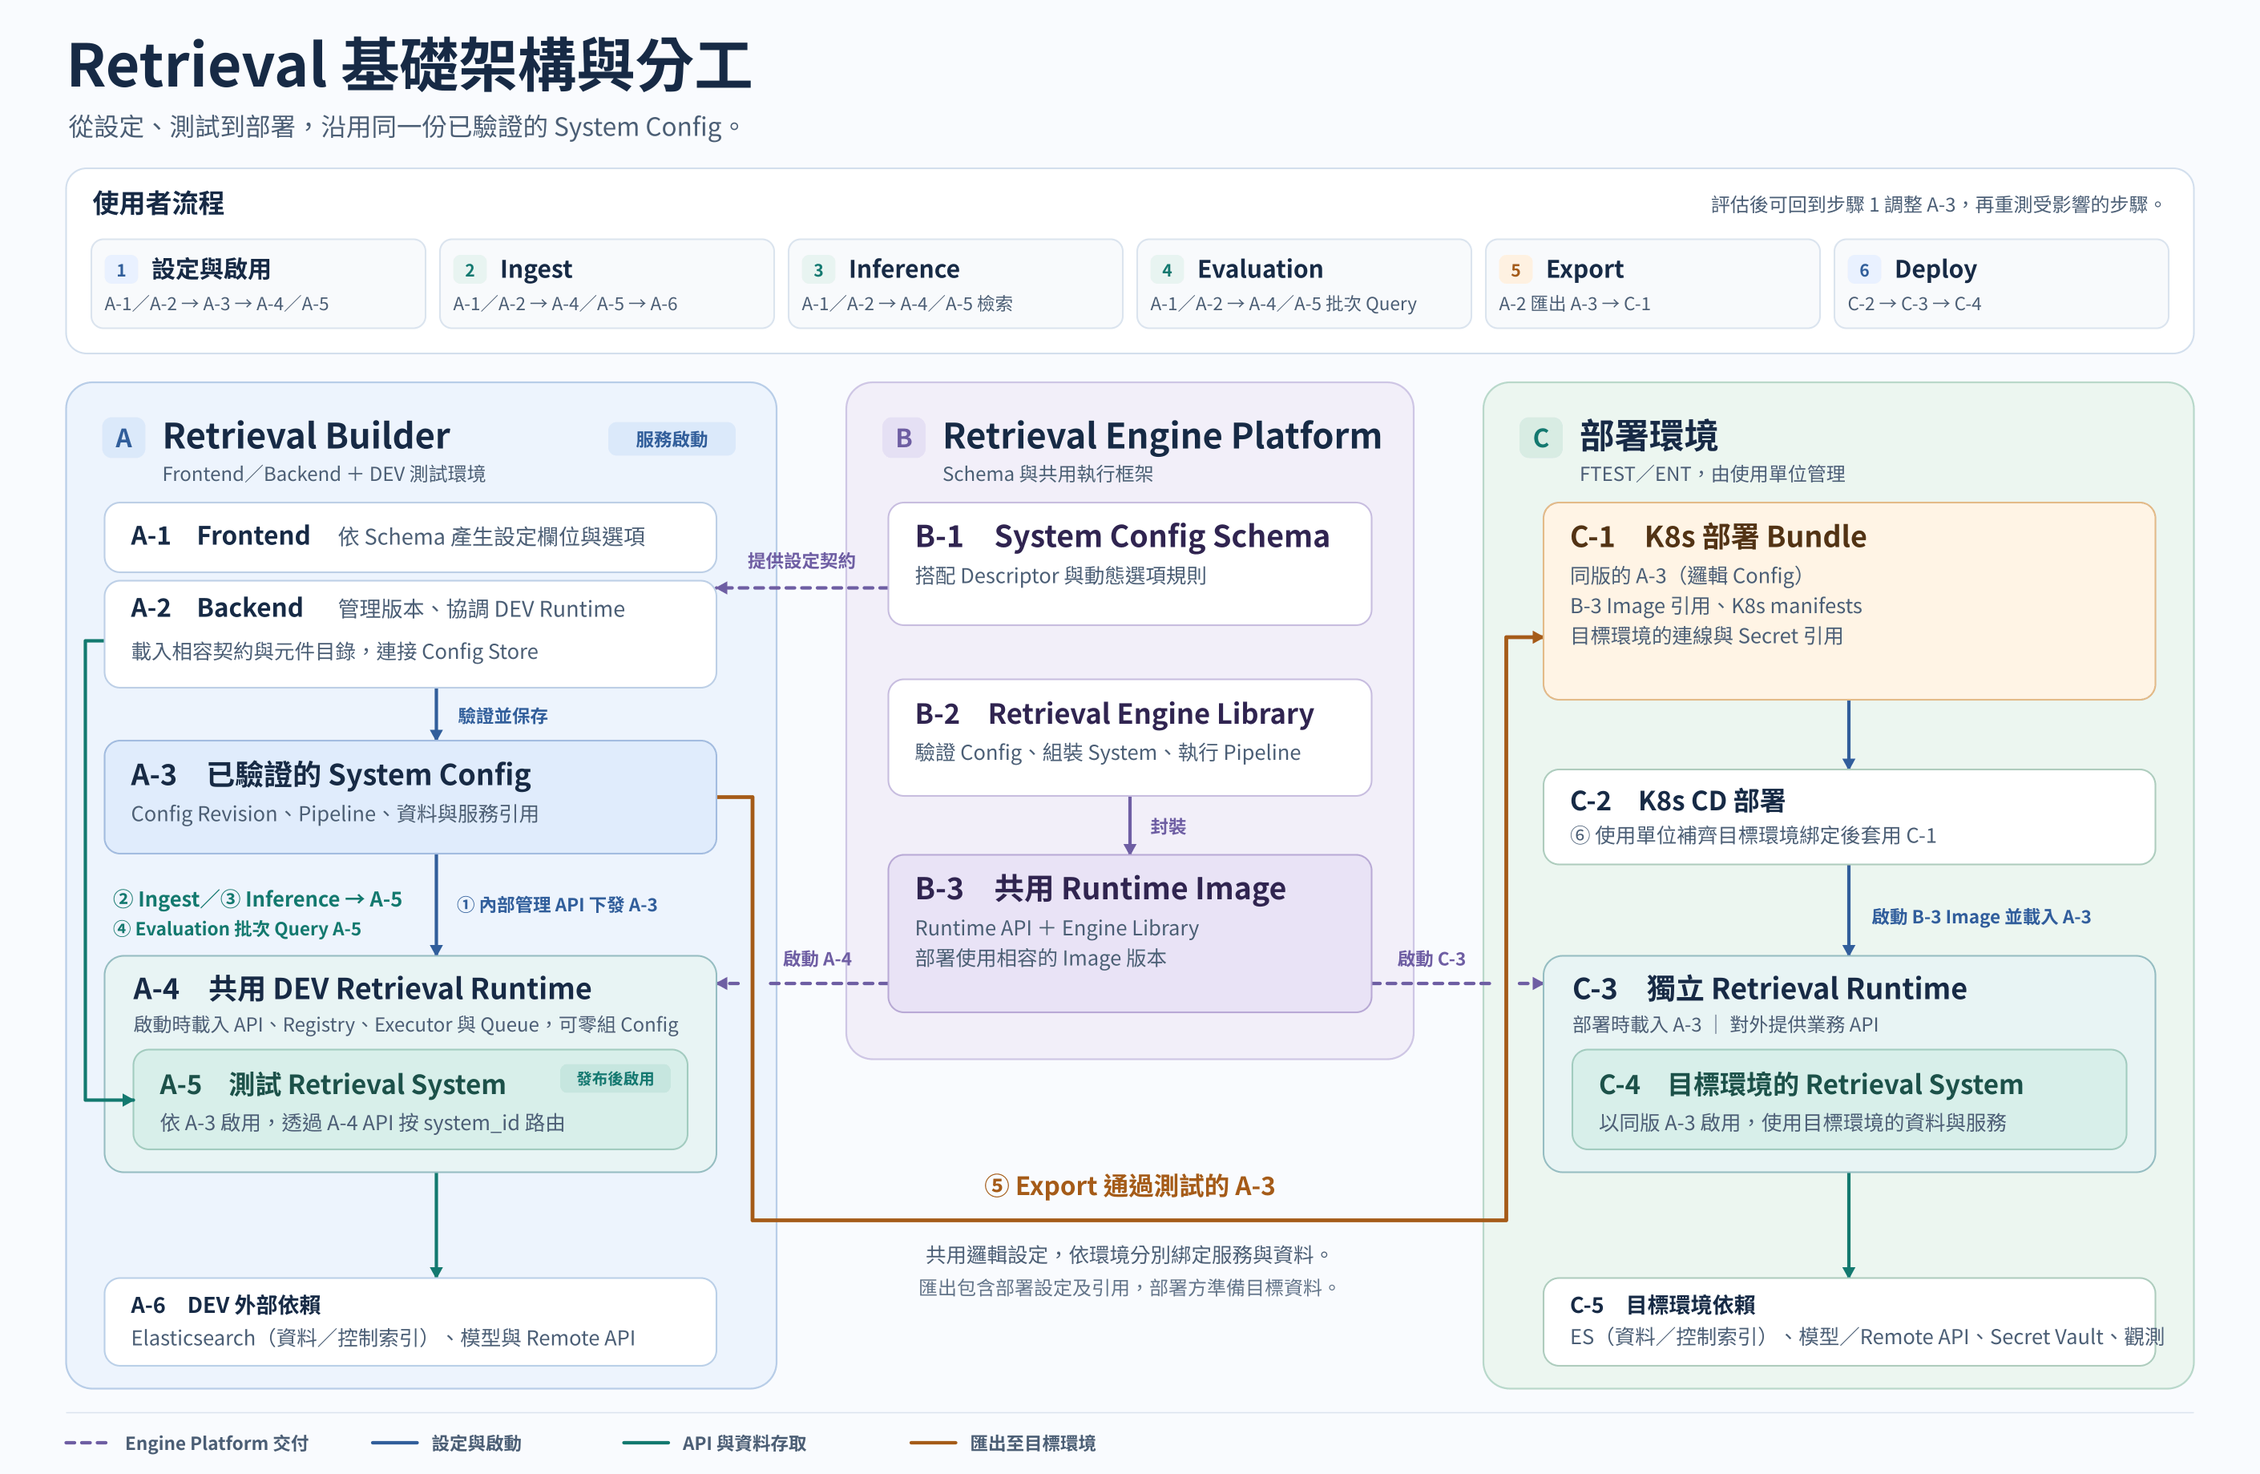
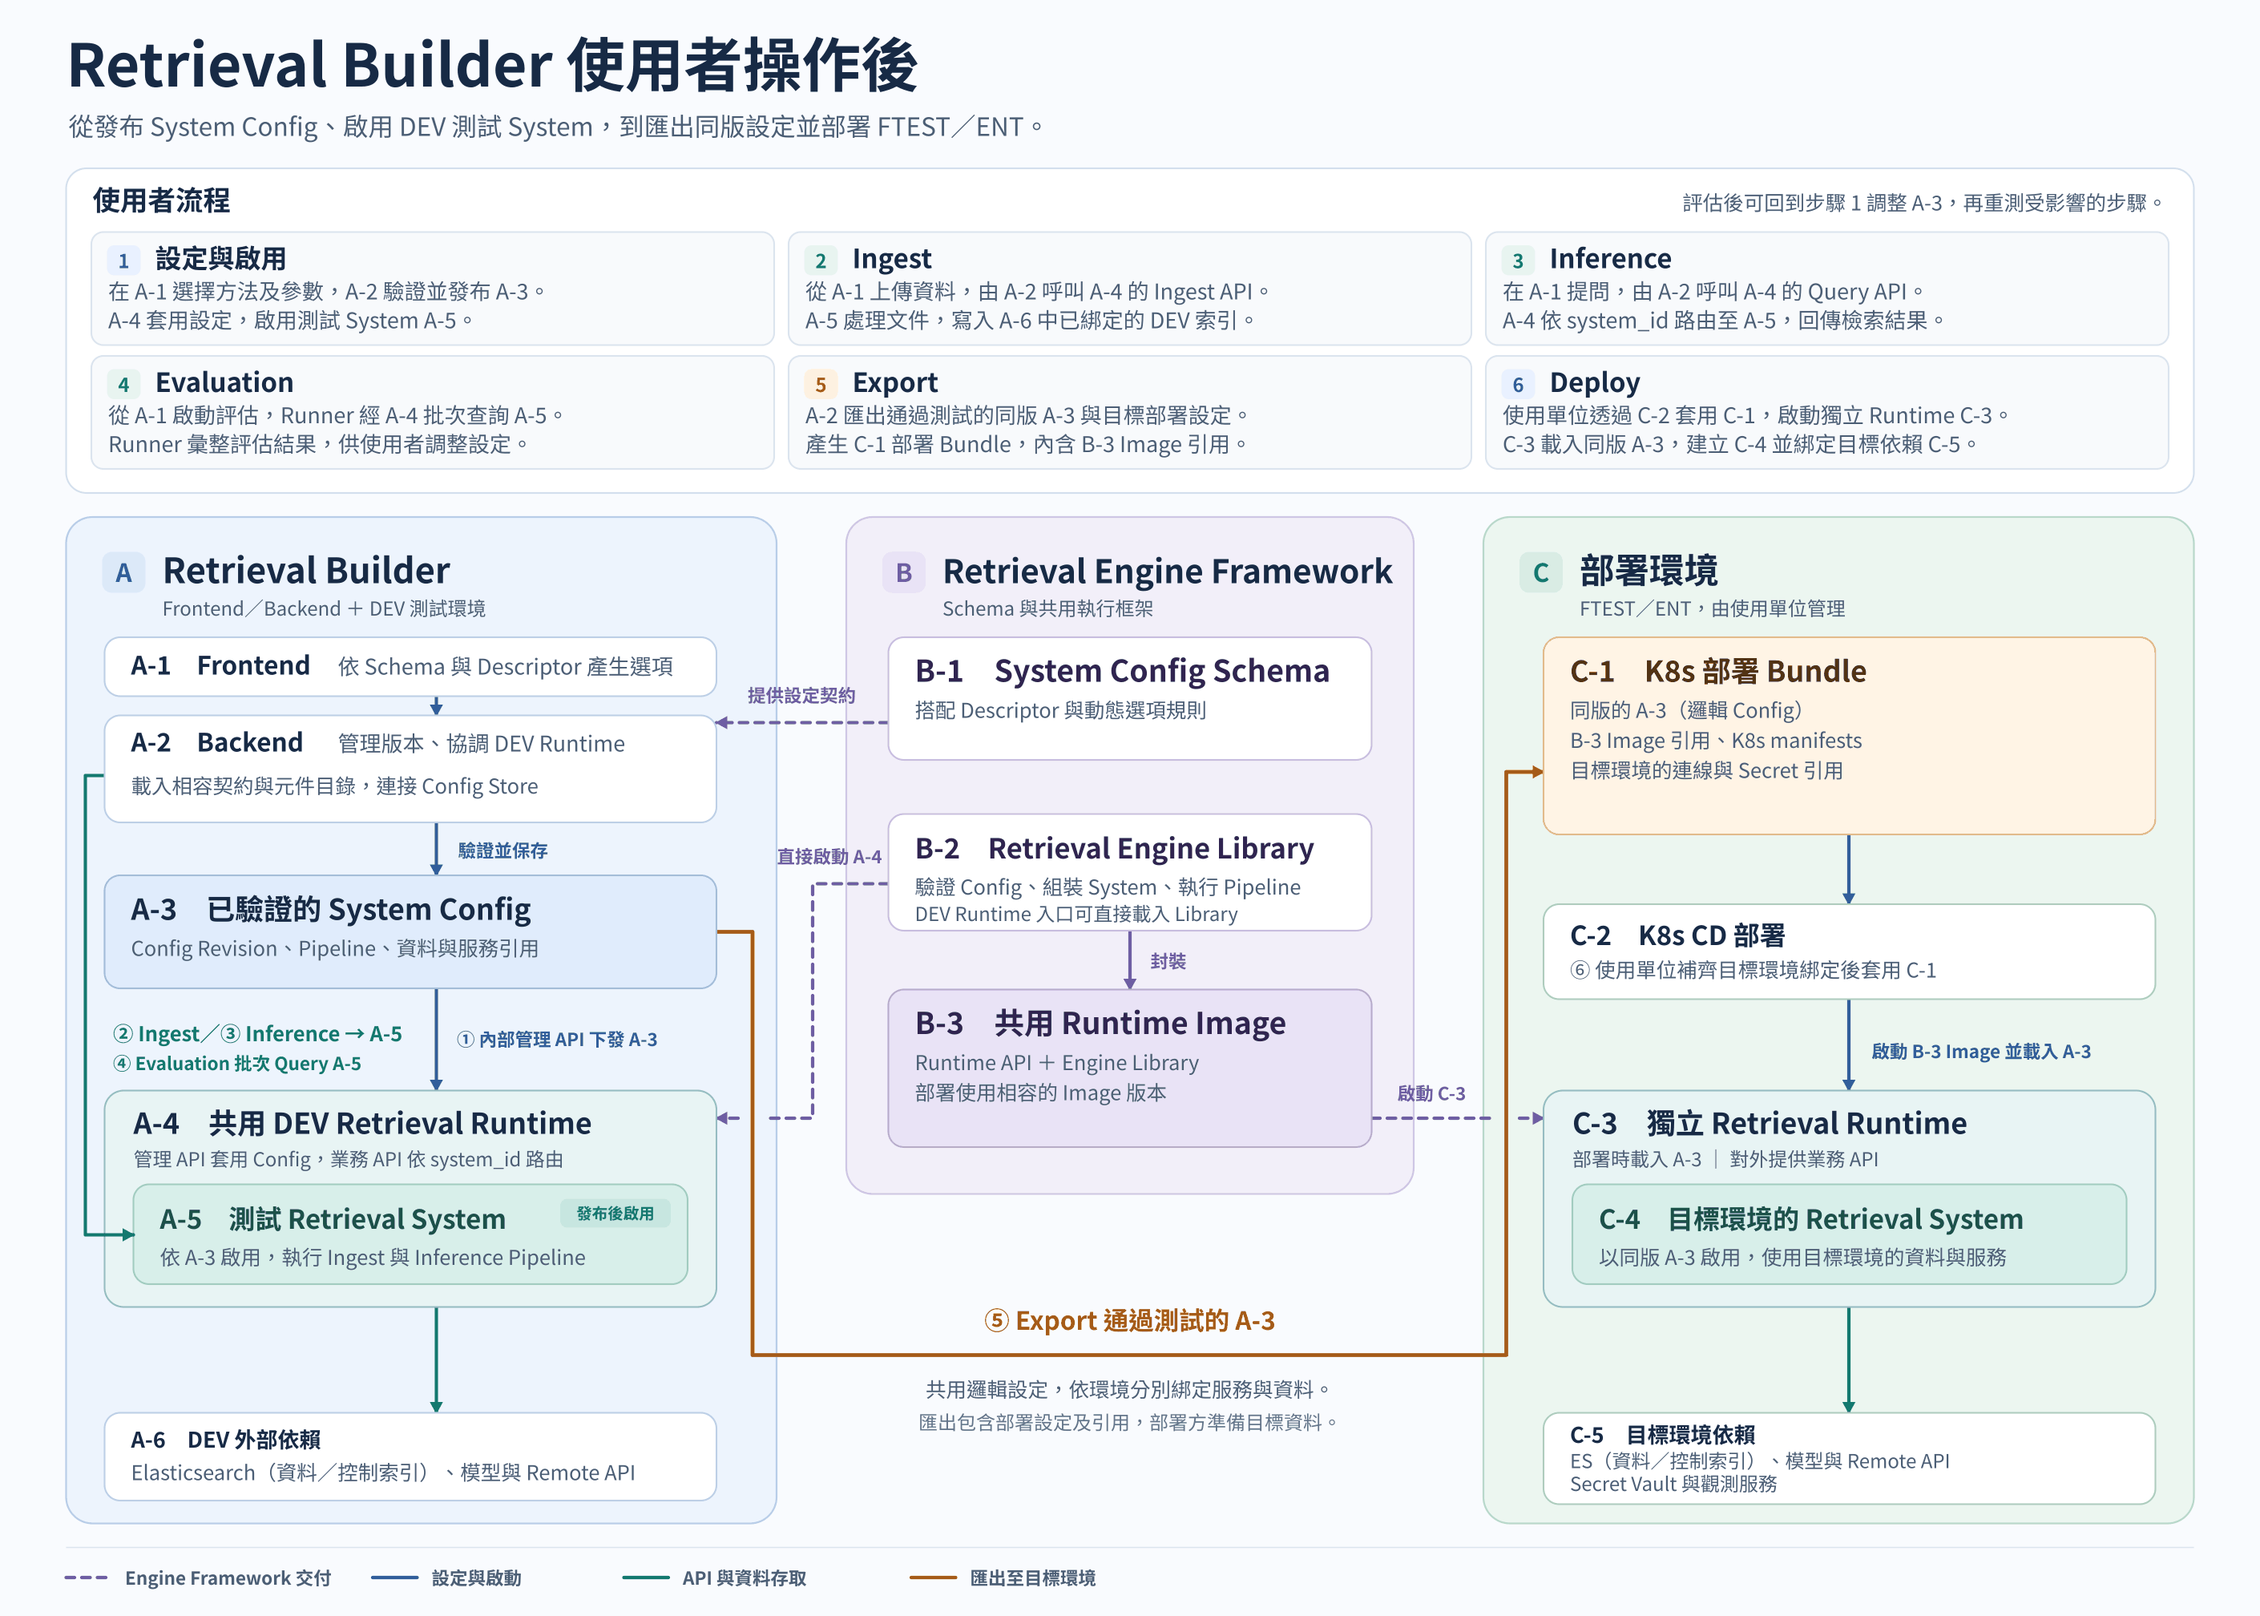
Split retrieval architecture into startup and user operation views

diff --git a/README.md b/README.md
@@ -16,4 +16,4 @@ User 在 Builder 設定、測試及匯出 Retrieval System。System 由 Retrieva
 - 接外部服務依序看 [03 Remote API](docs/03_engine_and_components.md#remote-api)、[05 設定](docs/05_system_config.md)及[契約範例](examples/user_remote_api/README.md)。
 - [01_ui_prototype.html](01_ui_prototype.html) 可離線操作，展示有效契約、套用模板及批次 Request。真實服務、模型和索引由 Runtime 實作。
 - [Schemas](schemas/README.md) 區分現行契約與歷史測資。舊規格與驗證入口見[歷史索引](docs/history/superseded/2026-11-11_developer_mode.md)。
-- 圖面：[User 流程](diagrams/01_user_system_l1.png)、[Infra](diagrams/02_infra_architecture.png)、[模組與 System](diagrams/03_module_component_concept.png)。
+- 圖面：[User 流程](diagrams/01_user_system_l1.png)、[Infra：Builder 啟動後](diagrams/02_infra_architecture_startup.png)、[Infra：使用者操作後](diagrams/02_infra_architecture.png)、[模組與 System](diagrams/03_module_component_concept.png)。
